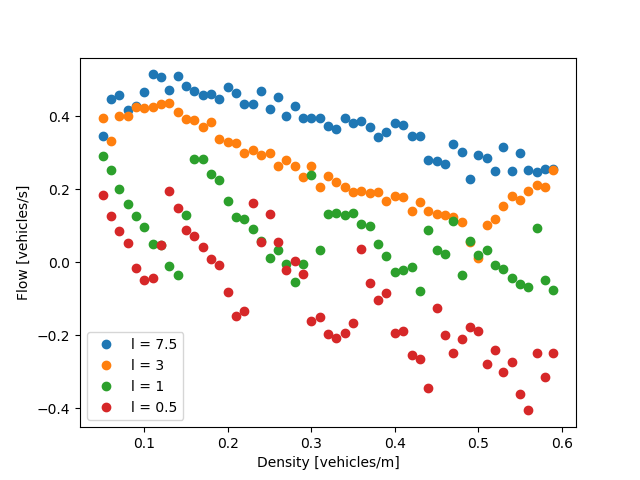
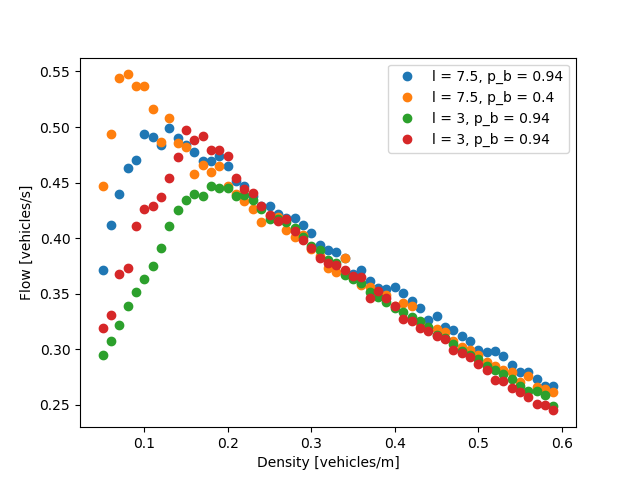
Badanie wplywu p_b na model Knospe

diff --git a/knospe_realistic.py b/knospe_realistic.py
@@ -6,7 +6,7 @@ import matplotlib.pyplot as plt
 
 
 class Car:
-    def __init__(self, road, y, x, length=7.5):
+    def __init__(self, road, y, x, length=7.5, p_b=0.94):
         self.v = 15
         self.v_next_step = 15
         self.v_max = 20 * road.cell_multip
@@ -18,7 +18,7 @@ class Car:
         self.road = road
 
         self.p_d = 0.1
-        self.p_b = 0.94
+        self.p_b = p_b
         self.p_0 = 0.5
 
         self.p = 0
@@ -139,7 +139,7 @@ class Car:
         self.y_next_step = self.other_lane()
 
 class Road:
-    def __init__(self, N, d, cell_length, num_of_iterations):
+    def __init__(self, N, d, cell_length, num_of_iterations, p_b):
         self.num_of_iterations = num_of_iterations
         self.d = d
         self.cell_length = cell_length
@@ -148,6 +148,7 @@ class Road:
         #self.num_of_vehicles = d * N
         self.cells = np.zeros((2, self.N)).astype(int)
         self.cells = self.cells - 1
+        self.p_b = p_b
 
         self.h = 6
         self.gap_safety = 7
@@ -155,7 +156,7 @@ class Road:
         self.cars = []
 
     def add_car(self, y, x, car_length = 7.5):
-        c = Car(self, y, x, car_length)
+        c = Car(self, y, x, car_length, self.p_b)
 
         # check if can add car
         for i in range(c.length_in_cells):
@@ -318,14 +319,23 @@ def compare():
     flow_arr_3 = np.zeros(len(density_arr))
     flow_arr_4 = np.zeros(len(density_arr))
 
-    x = 1
+    s1 = Road(200, 0.5, 7.5, 50, 0.94)
+    s2 = Road(200, 0.5, 3, 50, 0.94)
+
+    cell_multip_1 = s1.cell_multip
+    cell_multip_2 = s1.cell_multip
+    cell_multip_3 = s2.cell_multip
+    cell_multip_4 = s2.cell_multip
+
+    x = 10
     for _ in range(x):
+        print(_)
         # badamy model dla roznych gestosci ruchu
         for i in range(0, len(flow_arr_1)):
-            s1 = Road(500, density_arr[i], 7.5, 50)
-            s2 = Road(500, density_arr[i], 3, 50)
-            s3 = Road(500, density_arr[i], 1, 50)
-            s4 = Road(500, density_arr[i], 0.8, 50)
+            s1 = Road(500, density_arr[i]/cell_multip_1, 7.5, 100, 0.93)
+            s2 = Road(100, density_arr[i]/cell_multip_2, 7.5, 100, 0.40)
+            s3 = Road(100, density_arr[i]/cell_multip_3, 3, 30, 0.93)
+            s4 = Road(100, density_arr[i]/cell_multip_4, 3, 30, 0.40)
 
             [flow_1, iterations] = s1.simulation()
             [flow_2, iterations] = s2.simulation()
@@ -341,13 +351,13 @@ def compare():
     flow_arr_3 = flow_arr_3 / x
     flow_arr_4 = flow_arr_4 / x
 
-    comprasion.fundamental_diagram_comprasion(flow_arr_1, density_arr, "l = 7.5")
-    comprasion.fundamental_diagram_comprasion(flow_arr_2, density_arr, "l = 3")
-    comprasion.fundamental_diagram_comprasion(flow_arr_3, density_arr, "l = 1")
-    comprasion.fundamental_diagram_comprasion(flow_arr_4, density_arr, "l = 0.5")
+    comprasion.fundamental_diagram_comprasion(flow_arr_1, density_arr, "l = 7.5, p_b = 0.94")
+    comprasion.fundamental_diagram_comprasion(flow_arr_2, density_arr, "l = 7.5, p_b = 0.4")
+    comprasion.fundamental_diagram_comprasion(flow_arr_3, density_arr, "l = 3, p_b = 0.94")
+    comprasion.fundamental_diagram_comprasion(flow_arr_4, density_arr, "l = 3, p_b = 0.4")
 
     plt.legend()
-    plt.savefig("knsope_length.png")
+    plt.savefig("knsope_length_new.png")
 
 
 def main():
